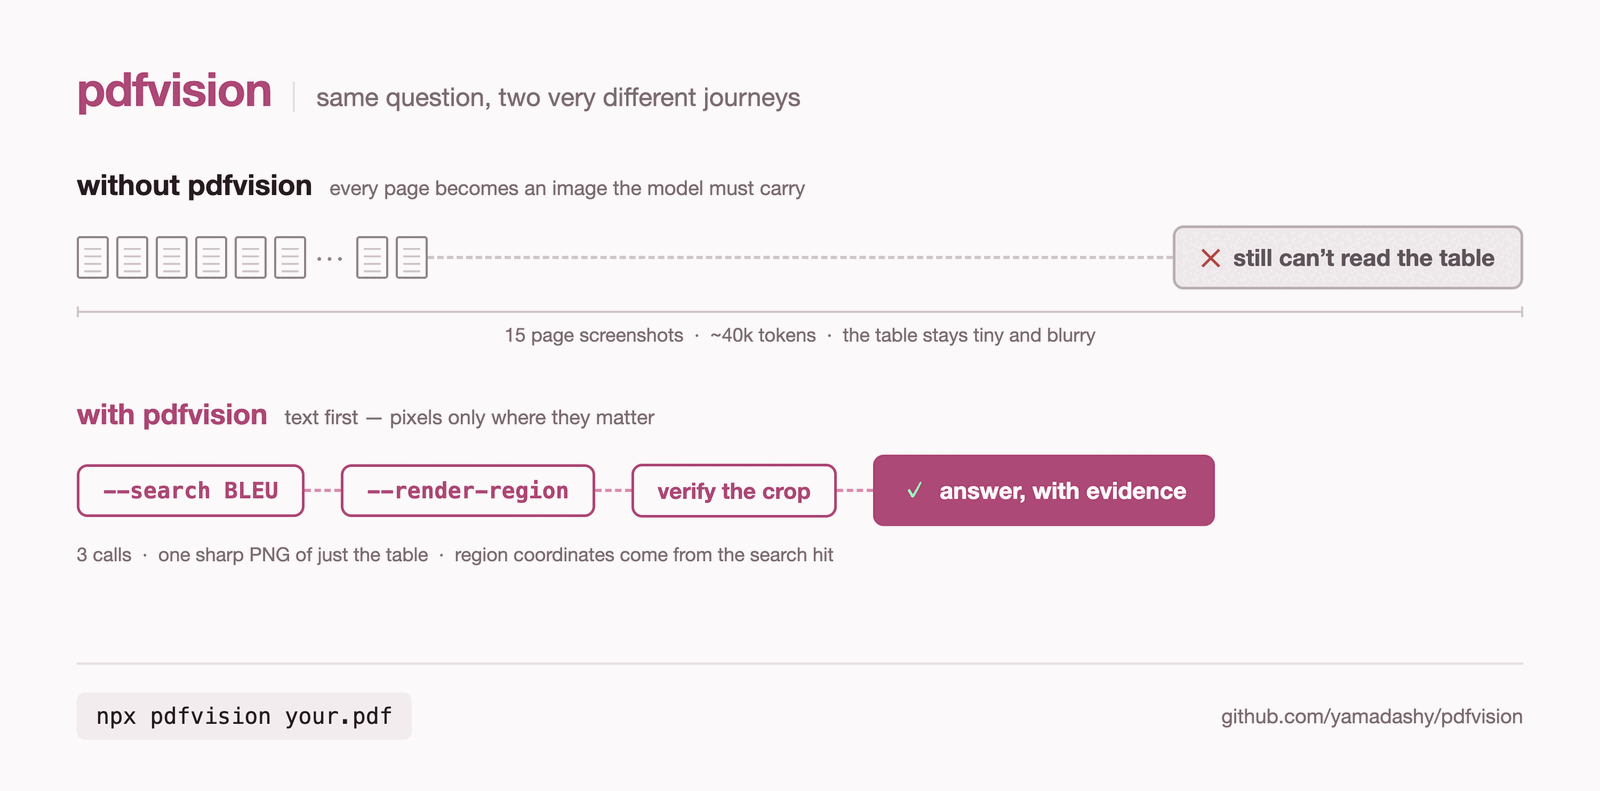
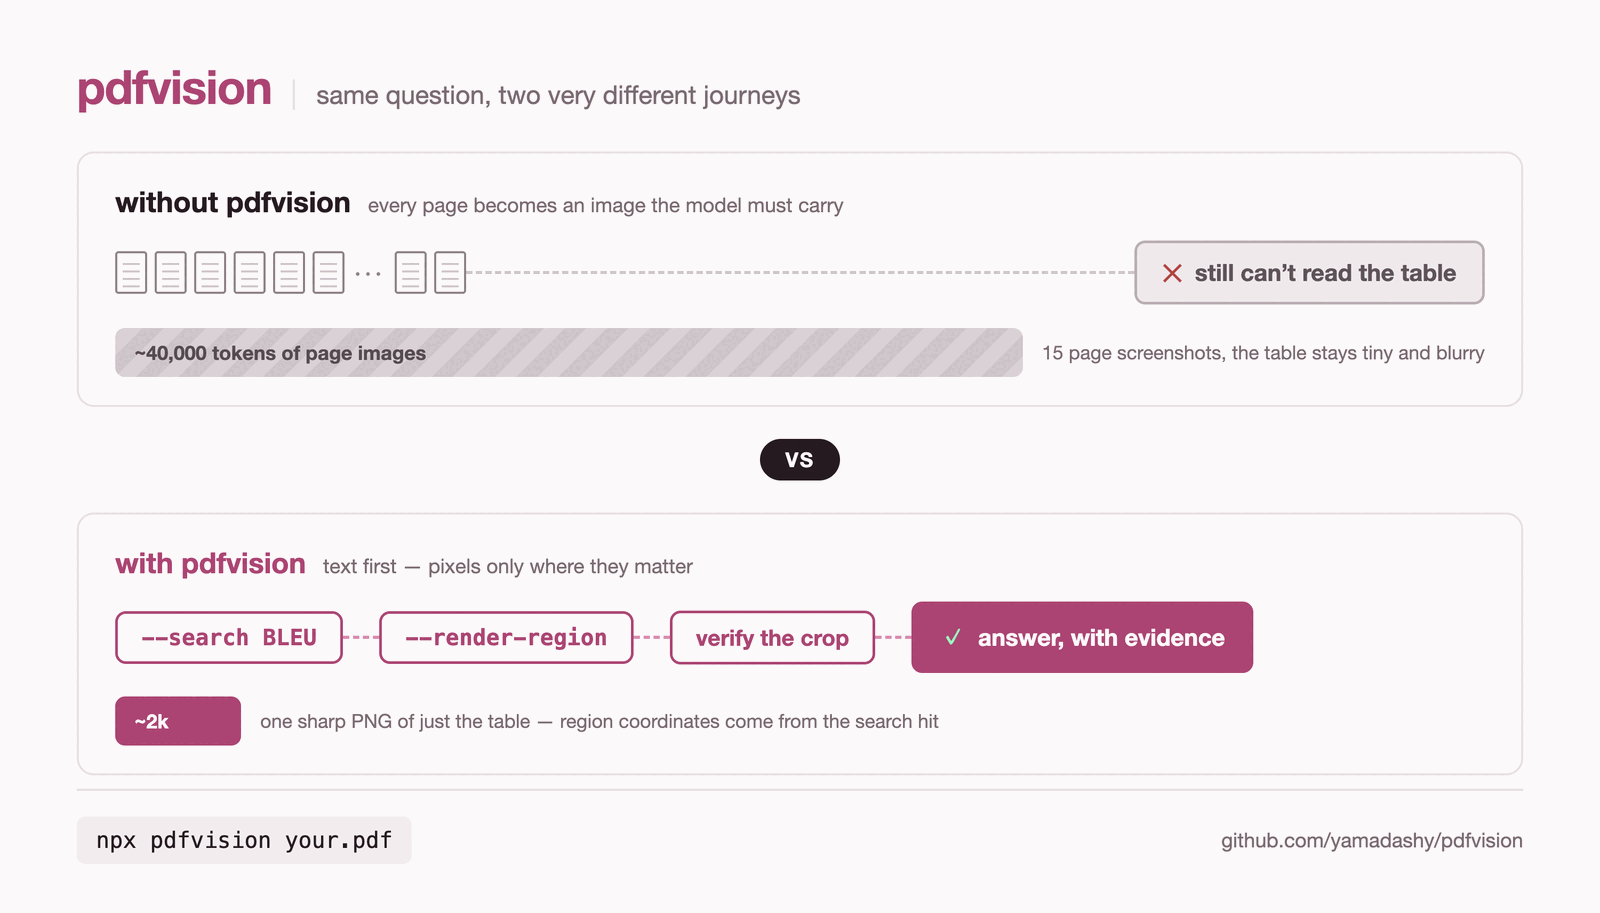
docs: card-per-lane comparison diagram with token bars and vs divider
Each lane now sits in its own bordered card with a central vs badge,
and a token-cost bar sits under each journey so the what and the
how-much read together.

diff --git a/docs/comparison.html b/docs/comparison.html
@@ -2,7 +2,7 @@
 <!--
   Source of docs/src/public/comparison.png (README + site top pages).
   Regenerate with:
-    chrome --headless=new --screenshot=out.png --window-size=1500,742 \
+    chrome --headless=new --screenshot=out.png --window-size=1500,856 \
       --force-device-scale-factor=2 --hide-scrollbars file://$PWD/docs/comparison.html
     magick out.png -resize 1600x -colors 256 docs/src/public/comparison.png
 -->
@@ -17,15 +17,14 @@
     --paper: #fbf9f9;
     --chip: #f2ecee;
     --gray: #8d8189;
-    --green: #2e9e5b;
   }
   * { margin: 0; padding: 0; box-sizing: border-box; }
-  html, body { width: 1500px; height: 742px; }
+  html, body { width: 1500px; height: 856px; }
   body {
     background: var(--paper);
     color: var(--ink);
     font-family: -apple-system, "Helvetica Neue", Arial, sans-serif;
-    padding: 56px 72px 48px;
+    padding: 54px 72px 46px;
     display: flex;
     flex-direction: column;
   }
@@ -35,8 +34,17 @@
   .name { font-size: 44px; font-weight: 700; letter-spacing: -0.02em; color: var(--plum); }
   .tag { font-size: 24px; color: var(--muted); padding-left: 20px; border-left: 2px solid var(--line); }
 
-  .lane { margin-top: 46px; }
-  .lane-head { display: flex; align-items: baseline; gap: 16px; margin-bottom: 22px; }
+  .panel {
+    margin-top: 34px; background: #fff; border: 2px solid var(--line);
+    border-radius: 16px; padding: 28px 34px 26px;
+  }
+  .vs {
+    align-self: center; margin-top: 30px; margin-bottom: -4px;
+    background: var(--ink); color: #fff; border-radius: 24px;
+    font-size: 19px; font-weight: 700; letter-spacing: 0.08em;
+    padding: 8px 24px; text-transform: uppercase;
+  }
+  .lane-head { display: flex; align-items: baseline; gap: 16px; margin-bottom: 20px; }
   .lane-title { font-size: 27px; font-weight: 700; }
   .lane-sub { font-size: 19px; color: var(--muted); }
   .with .lane-title { color: var(--plum); }
@@ -73,15 +81,19 @@
   .end.good { background: var(--plum); color: #fff; border: 2.5px solid var(--plum); }
   .end.good .mark { color: #9ff2c0; }
 
-  .under { display: flex; margin-top: 16px; font-size: 18px; color: var(--muted); }
-  .measure { display: flex; flex-direction: column; gap: 6px; flex: 1; }
-  .measure .rule { height: 10px; border-left: 2px solid #cfc5ca; border-right: 2px solid #cfc5ca; position: relative; }
-  .measure .rule::before { content: ""; position: absolute; left: 0; right: 0; top: 4px; border-top: 2px solid #cfc5ca; }
-  .measure span { text-align: center; }
+  .barwrap { display: flex; align-items: center; gap: 18px; margin-top: 22px; }
+  .bar { height: 46px; border-radius: 9px; display: flex; align-items: center; padding: 0 18px; }
+  .bar.gray {
+    width: 990px; color: #55494f;
+    background: repeating-linear-gradient(-45deg, #d9d1d5, #d9d1d5 14px, #cfc6cb 14px, #cfc6cb 28px);
+  }
+  .bar.plum { width: 118px; background: var(--plum); color: #fff; }
+  .bar span { font-size: 18.5px; font-weight: 600; white-space: nowrap; }
+  .barnote { font-size: 18px; color: var(--muted); white-space: nowrap; }
 
   footer {
     margin-top: auto; display: flex; justify-content: space-between; align-items: center;
-    border-top: 2px solid var(--line); padding-top: 26px;
+    border-top: 2px solid var(--line); padding-top: 24px;
   }
   .cmd { font-size: 21px; background: var(--chip); border-radius: 8px; padding: 10px 18px; color: var(--ink); }
   .site { font-size: 19px; color: var(--muted); }
@@ -92,7 +104,7 @@
     <div class="tag">same question, two very different journeys</div>
   </header>
 
-  <section class="lane without">
+  <section class="panel without">
     <div class="lane-head">
       <div class="lane-title">without pdfvision</div>
       <div class="lane-sub">every page becomes an image the model must carry</div>
@@ -107,15 +119,15 @@
       <div class="seg"></div>
       <div class="end bad"><span class="mark">✕</span> still can’t read the table</div>
     </div>
-    <div class="under">
-      <div class="measure">
-        <div class="rule"></div>
-        <span>15 page screenshots &nbsp;·&nbsp; ~40k tokens &nbsp;·&nbsp; the table stays tiny and blurry</span>
-      </div>
+    <div class="barwrap">
+      <div class="bar gray"><span>~40,000 tokens of page images</span></div>
+      <div class="barnote">15 page screenshots, the table stays tiny and blurry</div>
     </div>
   </section>
 
-  <section class="lane with">
+  <div class="vs">vs</div>
+
+  <section class="panel with">
     <div class="lane-head">
       <div class="lane-title">with pdfvision</div>
       <div class="lane-sub">text first — pixels only where they matter</div>
@@ -130,8 +142,9 @@
       <div class="end good"><span class="mark">✓</span> answer, with evidence</div>
       <div style="flex: 1 1 0"></div>
     </div>
-    <div class="under">
-      <span>3 calls &nbsp;·&nbsp; one sharp PNG of just the table &nbsp;·&nbsp; region coordinates come from the search hit</span>
+    <div class="barwrap">
+      <div class="bar plum"><span>~2k</span></div>
+      <div class="barnote">one sharp PNG of just the table — region coordinates come from the search hit</div>
     </div>
   </section>
 
